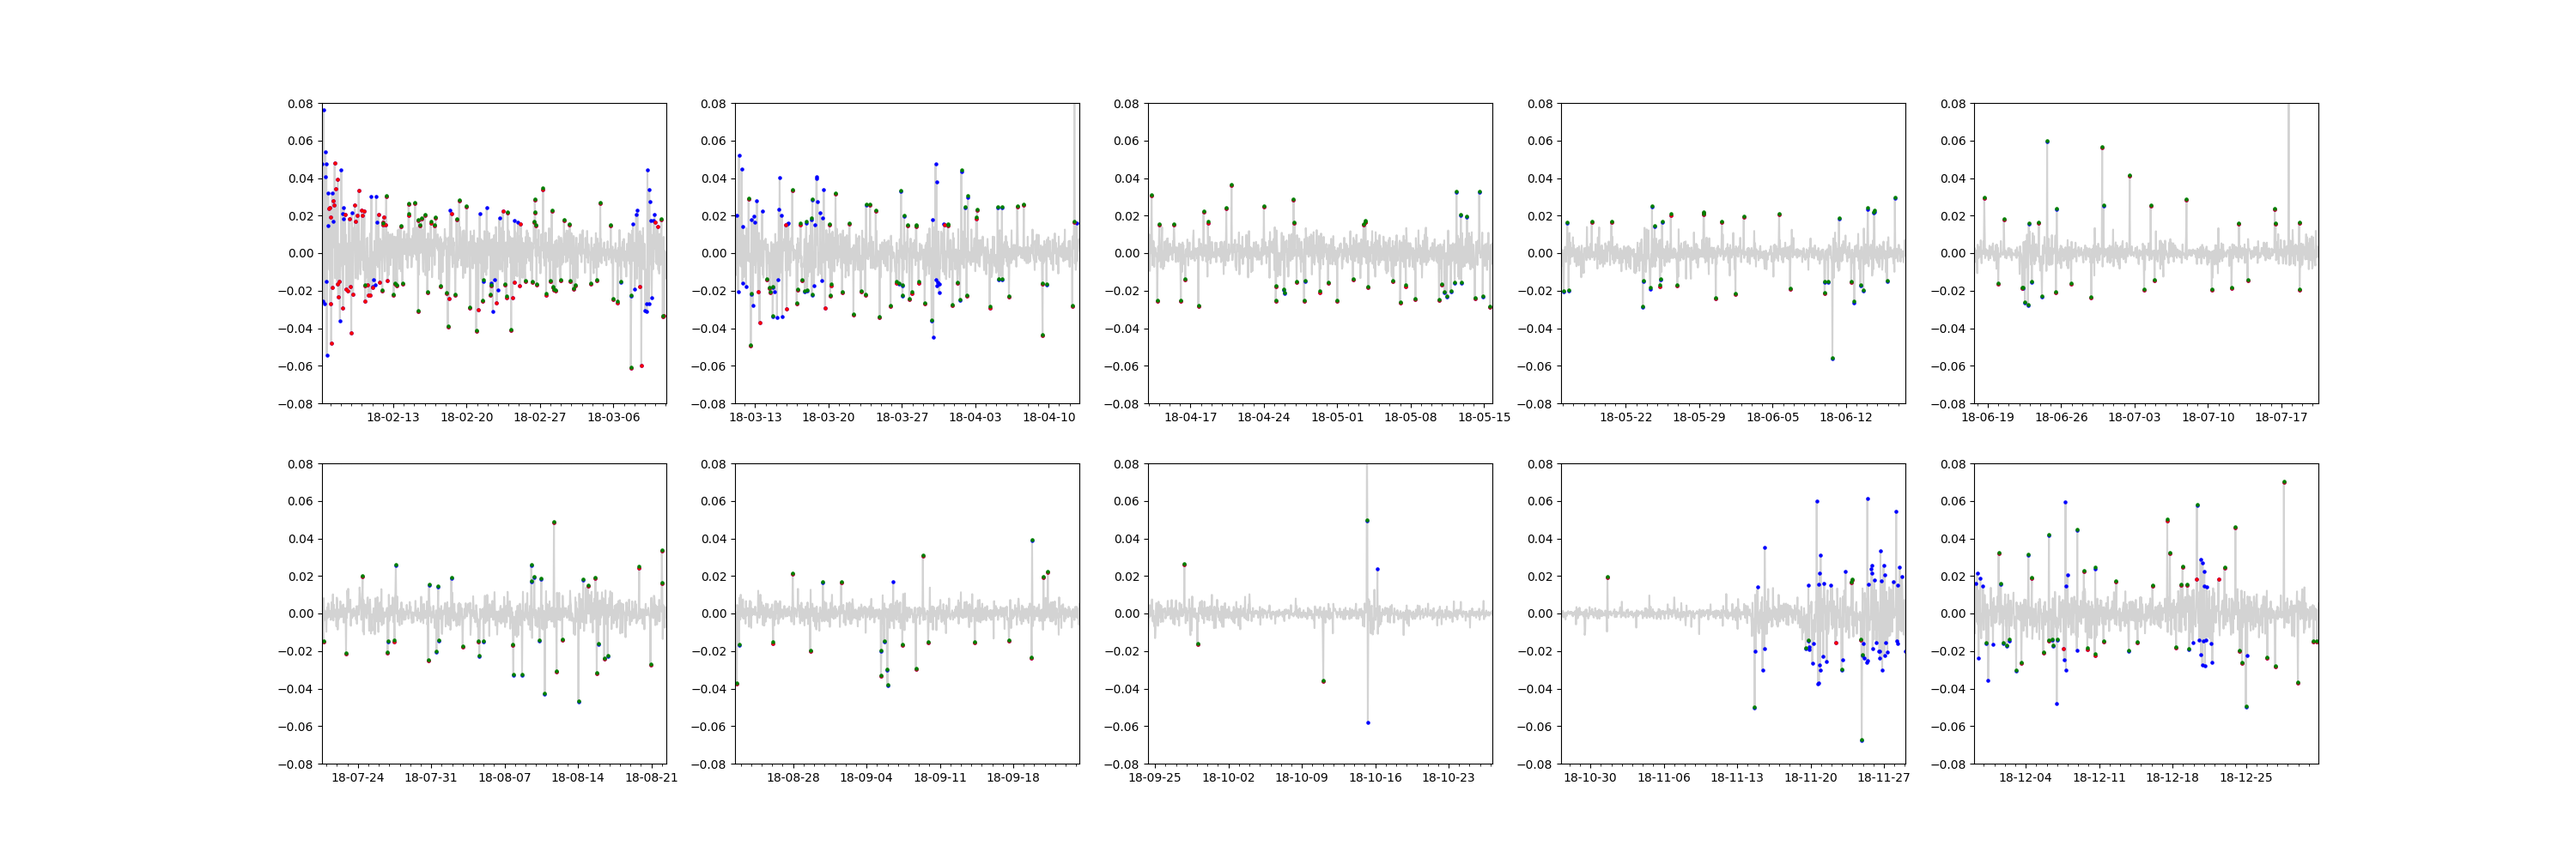
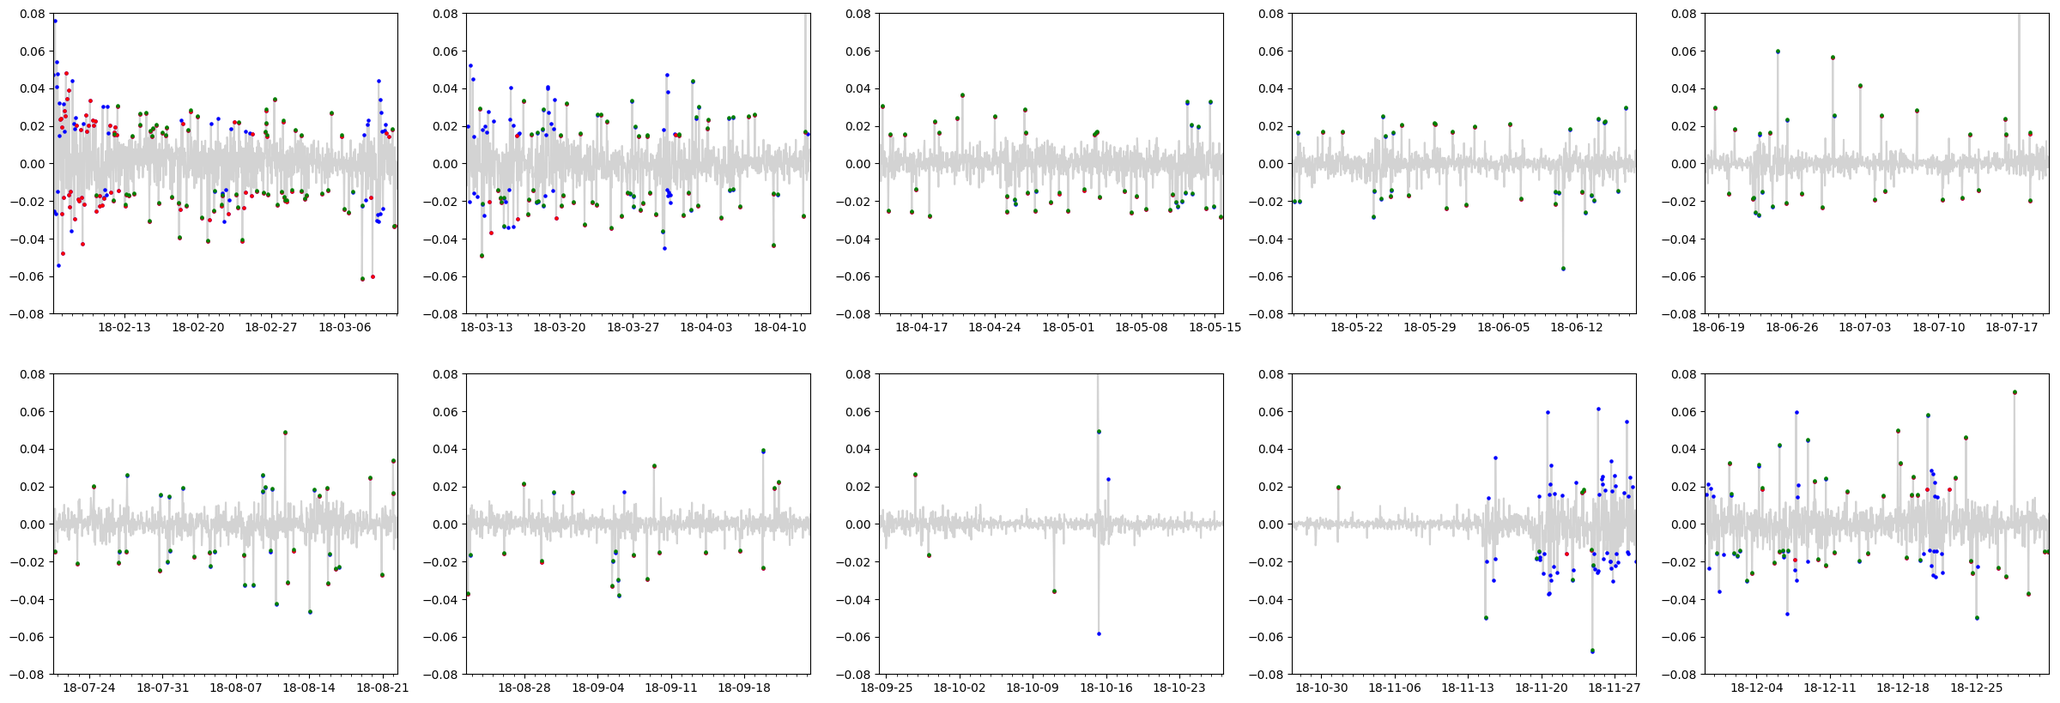
formatting plots

diff --git a/MLvsGARCHcomp/resultprocess.py b/MLvsGARCHcomp/resultprocess.py
@@ -247,4 +247,4 @@ def plot_class_results(results, type_, savefig=True, legend=True, title=None):
         fig.suptitle(title, fontsize=16)
 
     if savefig:
-        plt.savefig('plot_%s.png' % type_)
+        plt.savefig('plot_%s.png' % type_, bbox_inches = 'tight')
